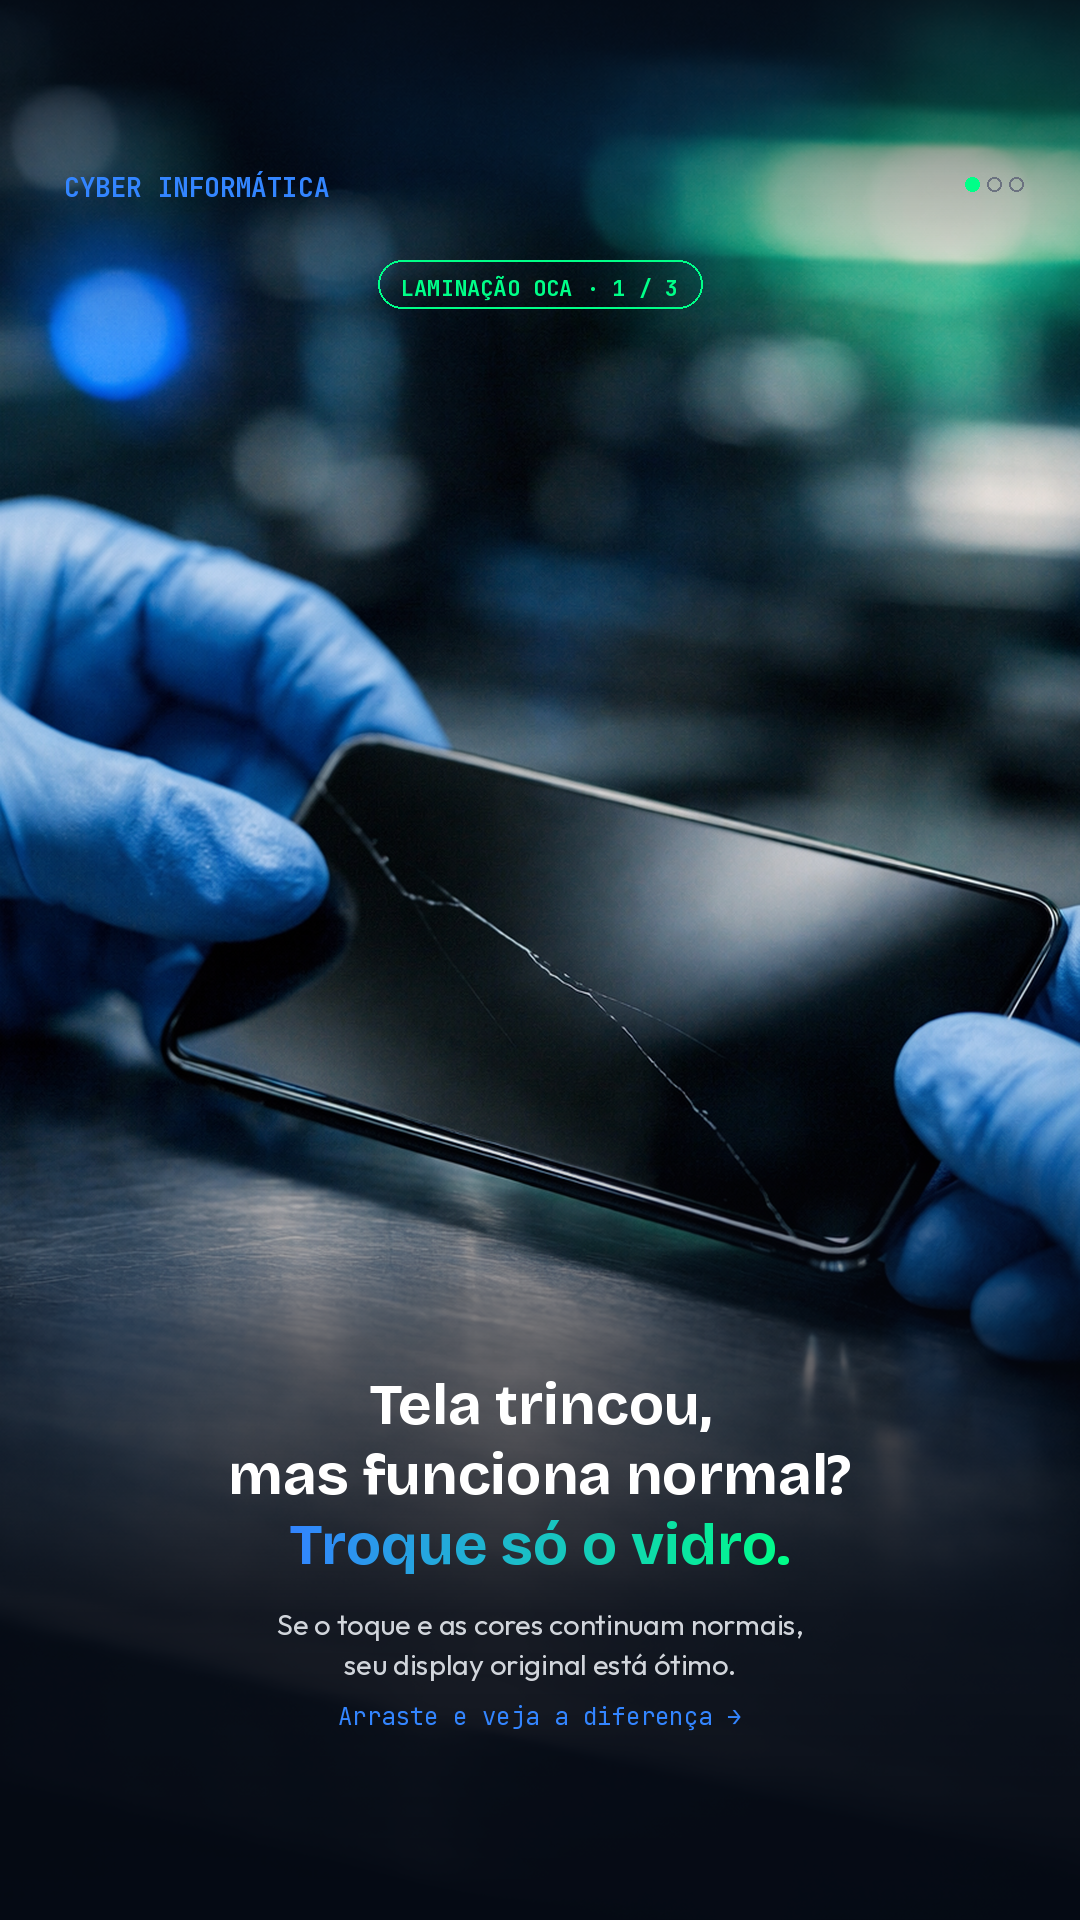
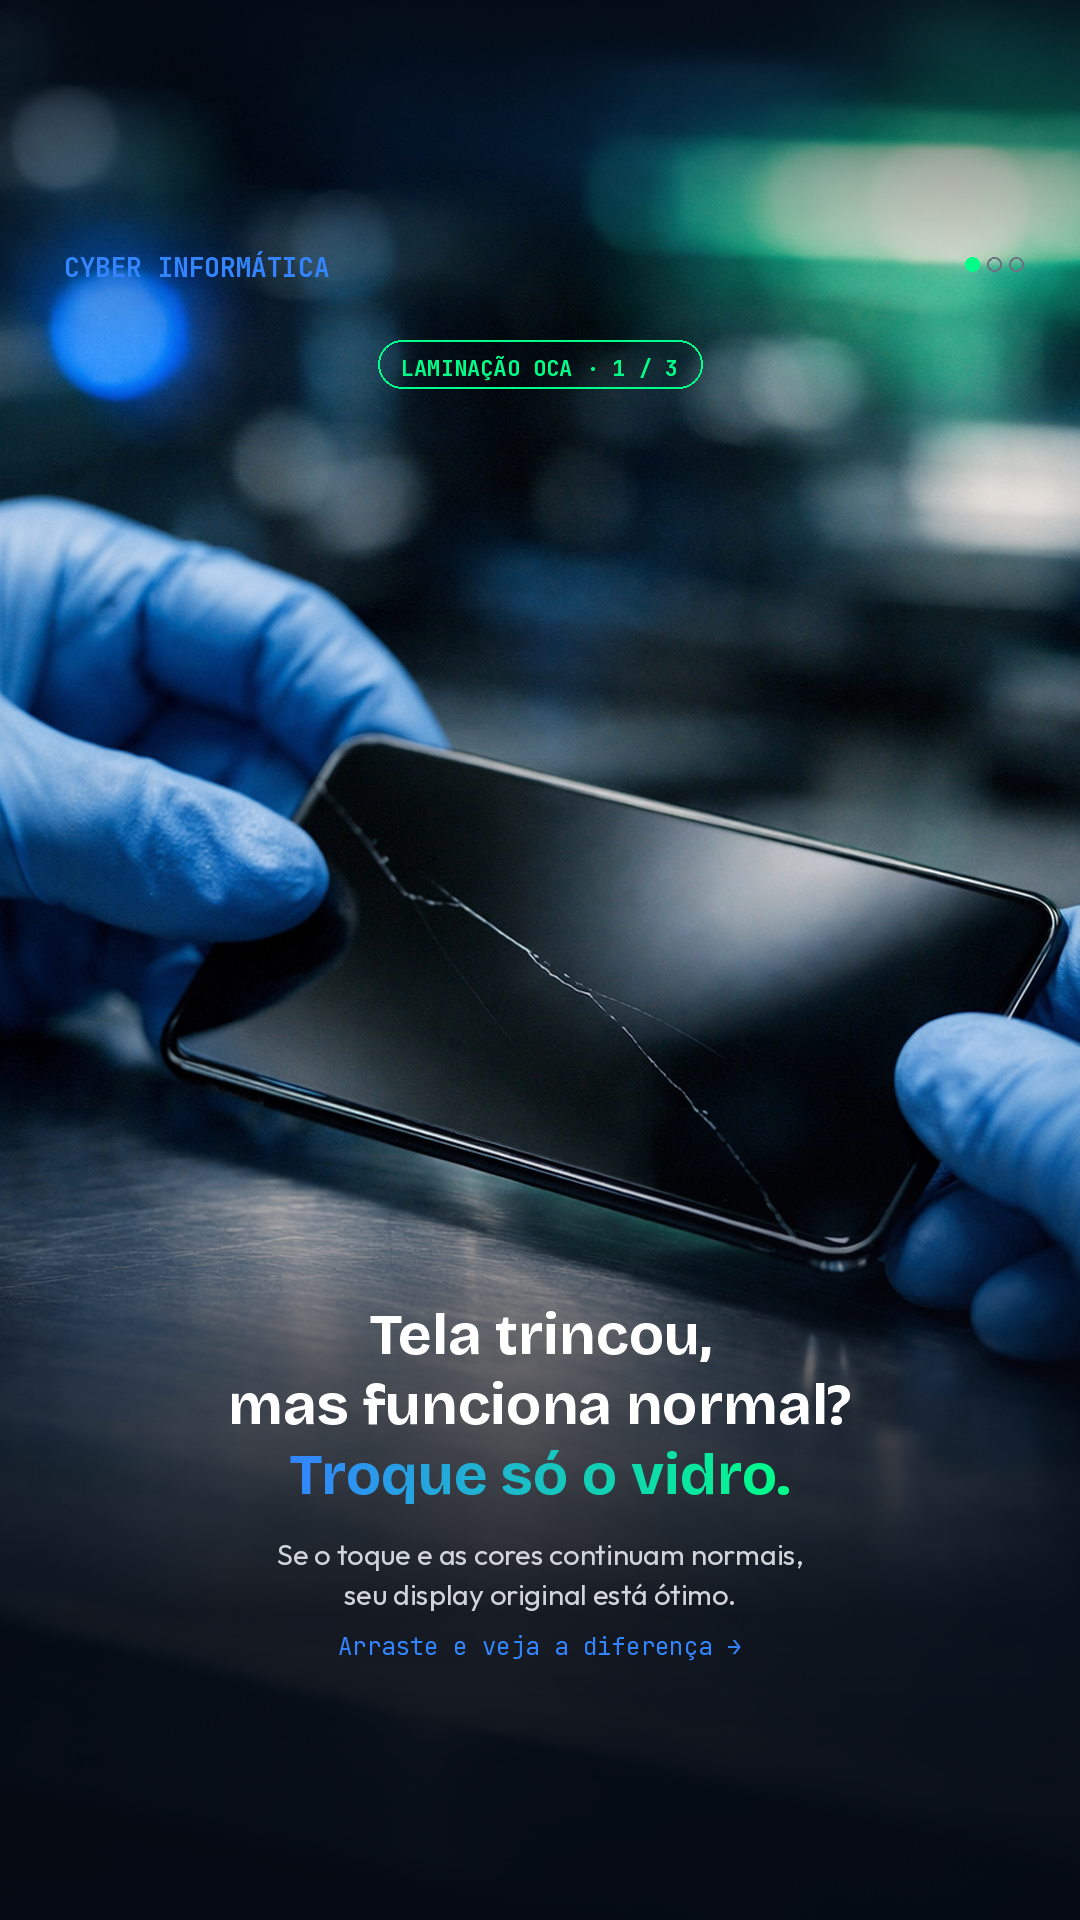
fix(campanha): aplica correções obrigatórias da revisão de tráfego pago
- Remove menção literal a "Apple ou Samsung" do disclaimer (feed e
  stories) — risco de rejeição pelas políticas de uso de marca da Meta.
  Vira "não somos autorizados de fábrica".
- Suaviza claim absoluto "Biometria funcionando 100%" → "Biometria
  preservada" (feed e stories).
- Stories/Reels: reposiciona wordmark, dots, badge e textos de rodapé
  para fora da faixa de ~250px que a Meta sobrepõe com UI nativa em
  anúncios pagos (chip de perfil/fechar no topo, barra de resposta no
  rodapé), recalculando o layout dos 3 slides para caber com folga.

diff --git a/assets/campanha-consumidor/gerar_stories_b2c.py b/assets/campanha-consumidor/gerar_stories_b2c.py
@@ -30,13 +30,13 @@ from gerar_slide1 import crop_to_ratio, vertical_gradient_alpha, SRC_PHOTO  # no
 W, H = 1080, 1920
 OUT_DIR = os.path.join(os.path.dirname(os.path.abspath(__file__)), "stories")
 
-# Cabeçalho posicionado com folga de ~190px do topo — Stories/Reels reservam
-# essa faixa para o chip de perfil/botão fechar sobrepostos pelo Instagram.
-HEADER_Y = 170
-DOT_Y = 184
-BADGE_Y = 260
-# Rodapé com folga simétrica — reservada para a barra de resposta do Stories.
-SAFE_BOTTOM = H - 220
+# Cabeçalho e rodapé respeitam a faixa de ~250px que o Instagram reserva em
+# Stories/Reels pagos para sobrepor UI nativa (chip de perfil/fechar no topo,
+# barra de resposta/CTA no rodapé) — nada de conteúdo relevante entra nela.
+HEADER_Y = 250
+DOT_Y = 264
+BADGE_Y = 340
+SAFE_BOTTOM = H - 290
 
 
 def base_canvas_dark():
@@ -96,7 +96,7 @@ def make_slide_1():
     eyebrow_badge(draw, W / 2, BADGE_Y, "LAMINAÇÃO OCA · 1 / 3")
 
     f_h1 = font(F_DISPLAY_BOLD, 58)
-    y = 1370
+    y = 1300
     draw_centered(draw, W / 2, y, "Tela trincou,", f_h1, WHITE)
     y += 70
     draw_centered(draw, W / 2, y, "mas funciona normal?", f_h1, WHITE)
@@ -137,7 +137,7 @@ def make_slide_2():
 
     col_y = y2 + 110
     col_w = (W - 64 * 2 - 24) / 2
-    col_h = 900
+    col_h = 760
     left_x = 64
     right_x = 64 + col_w + 24
 
@@ -180,7 +180,7 @@ def make_slide_2():
     items_good = [
         "Cores e brilho\nidênticos de fábrica",
         "Toque original,\npreciso, sem falha",
-        "Biometria\nfuncionando 100%",
+        "Biometria\npreservada",
     ]
     for i, it in enumerate(items_good):
         slot_top = col_y + title_zone + i * slot_h
@@ -210,43 +210,43 @@ def make_slide_3():
     y = eyebrow_badge(draw, W / 2, BADGE_Y, "ORÇAMENTO · 3 / 3")
 
     f_h1 = font(F_DISPLAY_BOLD, 66)
-    y2 = y + 170
+    y2 = y + 130
     draw_centered(draw, W / 2, y2, "Salve seu", f_h1, WHITE)
     y2 += 84
     gradient_text(img, (W / 2, y2), "display original.", f_h1, CYBER_BLUE_LIGHT, CIRCUIT_GREEN, anchor="ma")
     draw = ImageDraw.Draw(img)
-    y2 += 110
+    y2 += 100
 
     f_sub = font(F_BODY_REG, 30)
     draw_centered(draw, W / 2, y2, "Trocamos só o vidro externo — sua tela", f_sub, GRAY_300)
-    y2 += 42
+    y2 += 40
     draw_centered(draw, W / 2, y2, "de fábrica continua a mesma.", f_sub, GRAY_300)
-    y2 += 160
+    y2 += 130
 
     card_x, card_w = 64, W - 128
-    card_y, card_h = y2, 360
+    card_y, card_h = y2, 340
     rounded_rect(draw, [card_x, card_y, card_x + card_w, card_y + card_h], radius=30,
                  fill=NAVY_800, outline=(51, 92, 158), width=1)
 
     f_price_label = font(F_MONO_BOLD, 20)
-    draw_centered(draw, W / 2, card_y + 42, "ECONOMIA", f_price_label, GRAY_400)
+    draw_centered(draw, W / 2, card_y + 40, "ECONOMIA", f_price_label, GRAY_400)
     f_price = font(F_DISPLAY_BOLD, 50)
-    draw_centered(draw, W / 2, card_y + 74, "Até 70% mais barato", f_price, CIRCUIT_GREEN)
+    draw_centered(draw, W / 2, card_y + 70, "Até 70% mais barato", f_price, CIRCUIT_GREEN)
     f_price_sub = font(F_BODY_REG, 27)
-    draw_centered(draw, W / 2, card_y + 148, "que uma tela nova na autorizada", f_price_sub, GRAY_300)
+    draw_centered(draw, W / 2, card_y + 140, "que uma tela nova na autorizada", f_price_sub, GRAY_300)
 
-    draw.line([(card_x + 44, card_y + 228), (card_x + card_w - 44, card_y + 228)], fill=(51, 92, 158), width=1)
+    draw.line([(card_x + 44, card_y + 216), (card_x + card_w - 44, card_y + 216)], fill=(51, 92, 158), width=1)
 
     f_garantia = font(F_BODY_BOLD, 27)
     garantia_txt = "90 dias de garantia do serviço"
     gw = text_w(draw, garantia_txt, f_garantia)
     icon_r = 16
     gx0 = W / 2 - gw / 2 - icon_r * 2 - 12
-    check_icon(draw, gx0, card_y + 284, icon_r, CIRCUIT_GREEN)
-    draw.text((W / 2 - gw / 2 + icon_r, card_y + 270), garantia_txt, font=f_garantia, fill=WHITE, anchor="la")
+    check_icon(draw, gx0, card_y + 268, icon_r, CIRCUIT_GREEN)
+    draw.text((W / 2 - gw / 2 + icon_r, card_y + 254), garantia_txt, font=f_garantia, fill=WHITE, anchor="la")
 
-    btn_y = card_y + card_h + 130
-    btn_w, btn_h = card_w, 150
+    btn_y = card_y + card_h + 100
+    btn_w, btn_h = card_w, 140
     btn_x = card_x
     rounded_rect(draw, [btn_x, btn_y, btn_x + btn_w, btn_y + btn_h], radius=btn_h // 2, fill=CIRCUIT_GREEN)
     f_btn = font(F_BODY_BOLD, 37)
@@ -254,12 +254,12 @@ def make_slide_3():
                font=f_btn, fill=NAVY_950, anchor="mm")
 
     f_hours = font(F_MONO_REG, 23)
-    draw_centered(draw, W / 2, btn_y + btn_h + 40, "Seg–Sex · Resposta em poucas horas", f_hours, GRAY_400)
+    draw_centered(draw, W / 2, btn_y + btn_h + 34, "Seg–Sex · Resposta em poucas horas", f_hours, GRAY_400)
 
     f_disc = font(F_BODY_REG, 21)
-    disc_y = btn_y + btn_h + 140
-    draw_centered(draw, W / 2, disc_y, "Laboratório independente — não somos autorizados", f_disc, GRAY_500)
-    draw_centered(draw, W / 2, disc_y + 34, "Apple ou Samsung.", f_disc, GRAY_500)
+    disc_y = btn_y + btn_h + 120
+    draw_centered(draw, W / 2, disc_y, "Laboratório independente — não somos", f_disc, GRAY_500)
+    draw_centered(draw, W / 2, disc_y + 32, "autorizados de fábrica.", f_disc, GRAY_500)
 
     return img
 

diff --git a/assets/campanha-consumidor/gerar_carrossel_b2c.py b/assets/campanha-consumidor/gerar_carrossel_b2c.py
@@ -215,8 +215,8 @@ def make_slide_2():
 
     items_good = [
         "Cores e brilho\nidênticos aos de fábrica",
-        "Toque original,\npreciso, sem fantasma",
-        "Biometria\nfuncionando 100%",
+        "Toque original,\npreciso, sem falha",
+        "Biometria\npreservada",
     ]
     iy = col_y + 110
     for it in items_good:
@@ -298,8 +298,8 @@ def make_slide_3():
 
     # Disclaimer de transparência (compliance)
     f_disc = font(F_BODY_REG, 18)
-    draw_centered(draw, W / 2, H - 70, "Laboratório independente — não somos autorizados", f_disc, GRAY_500)
-    draw_centered(draw, W / 2, H - 46, "Apple ou Samsung.", f_disc, GRAY_500)
+    draw_centered(draw, W / 2, H - 70, "Laboratório independente — não somos", f_disc, GRAY_500)
+    draw_centered(draw, W / 2, H - 46, "autorizados de fábrica.", f_disc, GRAY_500)
 
     return img
 
